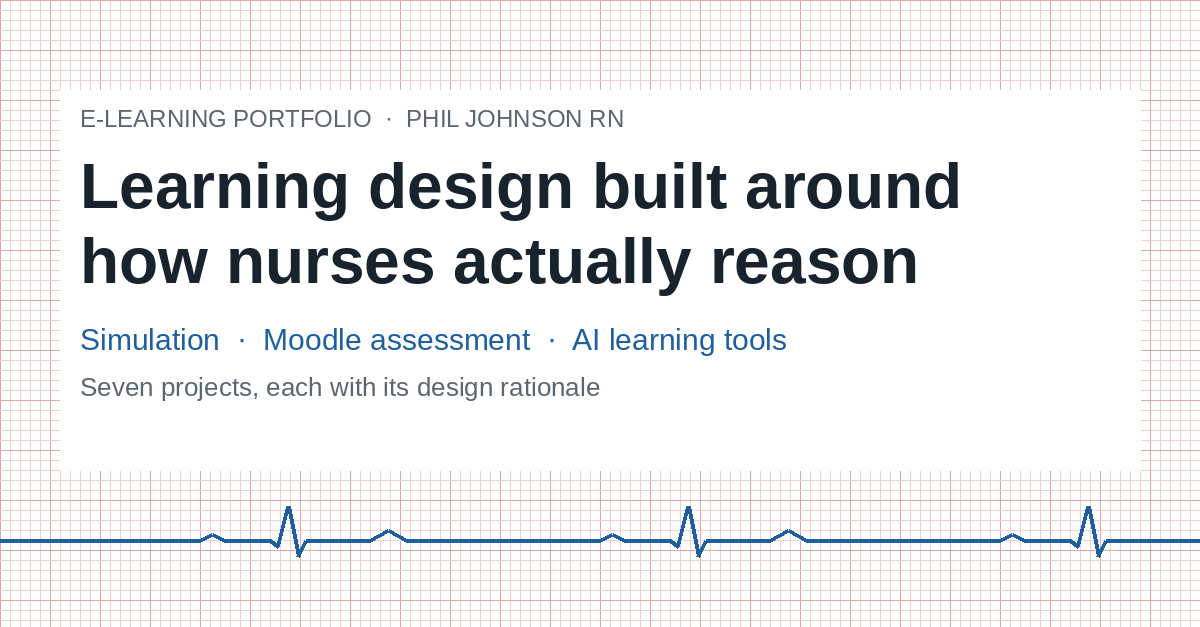
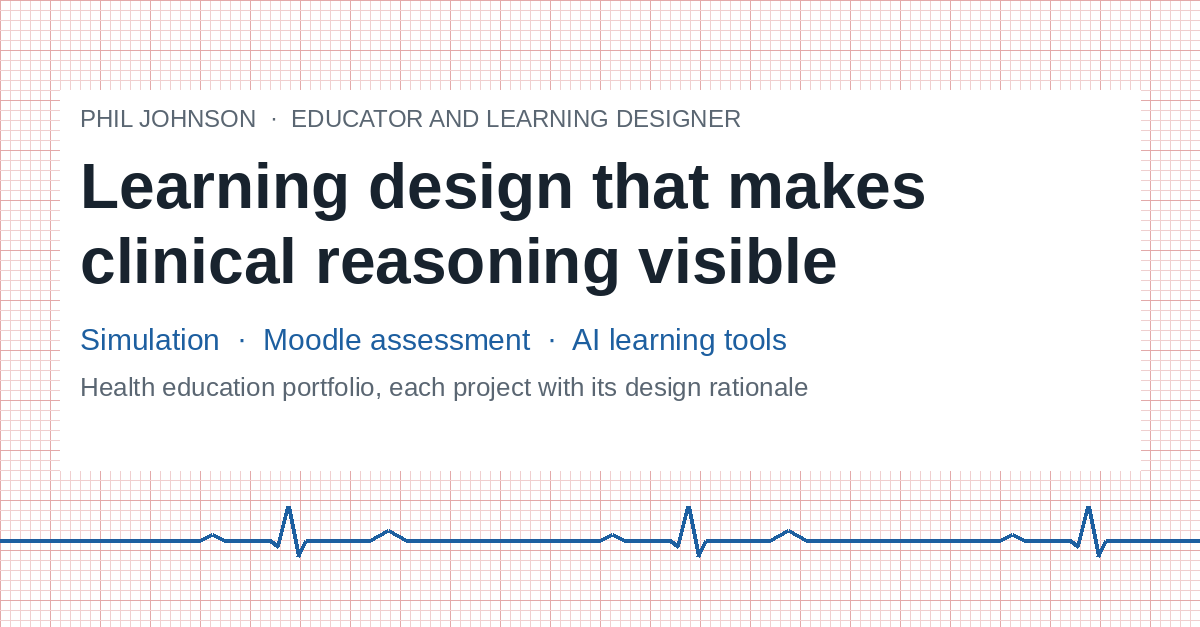
Reframe portfolio as educator and learning designer first, nurse second
Claude-Session: https://claude.ai/code/session_016N7MmoVYwVoLRT2QN2jKek

diff --git a/index.html b/index.html
@@ -4,11 +4,11 @@
 <meta charset="utf-8">
 <meta name="viewport" content="width=device-width, initial-scale=1, viewport-fit=cover">
 <title>Phil Johnson Learning Design</title>
-<meta name="description" content="Interactive e-learning portfolio of Phil Johnson RN, nurse educator: nursing simulations, Moodle assessment design and AI learning tools, each with its design rationale.">
+<meta name="description" content="Portfolio of Phil Johnson, educator and learning designer in health education: simulation, Moodle assessment design and AI learning tools, each with its design rationale.">
 <meta name="author" content="Phil Johnson">
 <meta property="og:type" content="website">
 <meta property="og:url" content="https://jets-git.github.io/portfolio/">
-<meta property="og:title" content="Phil Johnson RN | E-learning Portfolio">
+<meta property="og:title" content="Phil Johnson | Educator and Learning Designer">
 <meta property="og:description" content="Interactive e-learning portfolio of Phil Johnson RN, nurse educator: nursing simulations, Moodle assessment design and AI learning tools, each with its design rationale.">
 <meta property="og:image" content="https://jets-git.github.io/portfolio/og-image.png">
 <meta property="og:image:width" content="1200">
@@ -189,14 +189,14 @@ footer{margin-top:56px;border-top:1px solid var(--line);padding-top:16px;font-fa
 
 <header class="hero">
   <div class="wrap">
-    <div class="eyebrow">E-learning portfolio · Phil Johnson RN</div>
-    <h1>Learning design built around how nurses actually reason</h1>
-    <p class="lede">I am a Registered Nurse and nurse educator who builds digital learning for the Diploma of Nursing. Each project below opens into a decision record: the problem, the options I weighed, the pathway I chose and why.</p>
+    <div class="eyebrow">Phil Johnson · Educator and learning designer</div>
+    <h1>Learning design that makes clinical reasoning visible</h1>
+    <p class="lede">I am an educator and learning designer. I design, build and evaluate digital learning, simulation and assessment for health education, and I bring a Registered Nurse’s clinical judgement to that work. Each project below opens into a decision record: the problem, the options I weighed, the pathway I chose and why.</p>
     <svg class="trace" viewBox="0 0 1000 70" preserveAspectRatio="none" aria-hidden="true">
       <path d="M0 40 H160 l12 -6 l12 6 H230 l8 6 l10 -40 l10 50 l8 -16 H330 l18 -10 l18 10 H520 l12 -6 l12 6 H570 l8 6 l10 -40 l10 50 l8 -16 H670 l18 -10 l18 10 H860 l12 -6 l12 6 H910 l8 6 l10 -40 l10 50 l8 -16 H1000"/>
       <circle cx="996" cy="40" r="4"/>
     </svg>
-    <div class="meta"><span>Marr Mooditj Training · Byford WA</span><span>RN Div 1 · Cert IV TAE40122</span><span>7 projects · 5 levels of fidelity</span><span><a href="#learning">Credentials and CPD ↓</a></span></div>
+    <div class="meta"><span>Marr Mooditj Training · Byford WA</span><span>Cert IV TAE40122 · RN Div 1</span><span>7 projects · 5 levels of fidelity</span><span><a href="#learning">Credentials and CPD ↓</a></span></div>
   </div>
 </header>
 
@@ -251,7 +251,7 @@ footer{margin-top:56px;border-top:1px solid var(--line);padding-top:16px;font-fa
     <p>Drawn from my CPD log. Each entry records what I did, the competencies it relates to, and my reflection on how it changes my practice.</p>
   </header>
   <div class="tiles" id="cpdTiles"></div>
-  <h3 style="font-size:20px;margin:0 0 8px">Registration, qualifications and training</h3>
+  <h3 style="font-size:20px;margin:0 0 8px">Qualifications, memberships and registration</h3>
   <div class="creds-list" id="credEl"></div>
   <h3 style="font-size:20px;margin:0 0 4px">Learning log</h3>
   <div class="filters" id="cpdFilters" role="group" aria-label="Filter learning log"></div>
@@ -261,24 +261,24 @@ footer{margin-top:56px;border-top:1px solid var(--line);padding-top:16px;font-fa
 <section id="about">
   <header>
     <div class="eyebrow">Background</div>
-    <h2>Clinician first, designer second</h2>
+    <h2>Educator first, informed by clinical practice</h2>
   </header>
   <div class="about">
     <div>
-      <p>I teach the Diploma of Nursing at Marr Mooditj Training, facilitate nursing students on placement at Fiona Stanley and Royal Perth hospitals, and keep my clinical practice current through casual CCU and ED shifts. That mix shapes the work: I design for the moment a student meets a real patient.</p>
+      <p>My work is teaching and learning design. At Marr Mooditj Training I deliver the Diploma of Nursing, design its digital learning and assessment, and lead the move from paper-based assessment to Moodle. I build simulations and AI learning tools, and I am deepening my practice through a Graduate Certificate in Education (Digital Learning), HERDSA’s SoTL modules and an Advance HE Fellowship application.</p><p>Clinical practice keeps that work honest. I facilitate nursing students on placement at Fiona Stanley and Royal Perth hospitals and work casual CCU and ED shifts, so I design for the moment a student meets a real patient.</p>
       <p>Before nursing I spent thirteen years as a commissioned Intelligence Officer in the Royal Australian Air Force. Analysing systems, weighing options under uncertainty and writing the reasoning down for someone else to scrutinise are habits from that career, and they are the habits this portfolio documents.</p>
-      <p>My research builds on the same question. I have applied for doctoral study at the University of Notre Dame Australia from 2027. The proposed research, <em>Making Clinical Reasoning Visible</em>, examines how clinical reasoning can be assessed in OSCEs. Alongside it I am completing a Graduate Certificate in Education (Digital Learning) at Adelaide University and HERDSA’s Scholarship of Teaching and Learning modules, and applying for Fellowship of the Higher Education Academy (Advance HE). A later strand explores game mechanics that make a learner's diagnostic reasoning visible step by step.</p>
+      <p>My research builds on the same question. I have applied for doctoral study at the University of Notre Dame Australia from 2027. The proposed research, <em>Making Clinical Reasoning Visible</em>, examines how clinical reasoning can be assessed in OSCEs. A later strand explores game mechanics that make a learner's diagnostic reasoning visible step by step.</p>
     </div>
     <dl class="creds">
+      <div><dt>Education and training</dt><dd>Cert IV Training and Assessment (TAE40122) · Graduate Certificate in Education (Digital Learning), in progress · Bachelor of Nursing · Bachelor of Science</dd></div>
       <div><dt>Registration</dt><dd>Registered Nurse (Division 1)</dd></div>
-      <div><dt>Education</dt><dd>Bachelor of Nursing · Bachelor of Science · Cert IV Training and Assessment (TAE40122)</dd></div>
-      <div><dt>Memberships</dt><dd>Australian College of Nursing · HERDSA Health Sciences, Online Engagement in Higher Education and SoTL SIGs</dd></div>
+      <div><dt>Memberships</dt><dd>HERDSA Health Sciences, Online Engagement in Higher Education and SoTL SIGs · Australian College of Nursing</dd></div>
       <div><dt>Tools</dt><dd>Moodle · Python and web apps on Render · LLM integration · ESP32 · Blender and 3D printing</dd></div>
     </dl>
   </div>
 </section>
 
-<footer>Phil Johnson · Nurse educator · Perth, Western Australia</footer>
+<footer>Phil Johnson · Educator and learning designer · Registered Nurse · Perth, Western Australia</footer>
 </main>
 
 <script>
@@ -446,7 +446,7 @@ function renderAll(){renderLadder();renderFilters();renderCases()}
 open.add("med");
 renderAll();renderMatrix();
 /* Professional learning: reads data/cpd.json */
-const CPD_GROUPS={all:"All",learn:"Formal learning",sim:"Simulation education",practice:"Clinical practice",lead:"Leadership and networking",aware:"Industry awareness"};
+const CPD_GROUPS={all:"All",sim:"Simulation education",learn:"Formal learning",lead:"Leadership and networking",aware:"Industry awareness",practice:"Clinical practice"};
 let cpdData=null, cpdFilter="all", cpdAll=false;
 const esc=t=>String(t??"").replace(/[&<>"]/g,c=>({"&":"&amp;","<":"&lt;",">":"&gt;",'"':"&quot;"}[c]));
 function cpdGroup(e){
@@ -466,11 +466,11 @@ function renderCPD(){
   const sim=list.filter(x=>cpdGroup(x)==="sim");
   const ry=`${s.getFullYear()}–${String(e.getFullYear()).slice(2)}`;
   $("#cpdTiles").innerHTML=`
+    <div class="tile"><span class="k">Simulation education</span><span class="v">${sim.length}<small> modules</small></span><span class="note">Standards, debriefing, scenario design, moulage and simulated patients</span></div>
     <div class="tile"><span class="k">Development hours · ${ry}</span><span class="v">${+dev.toFixed(1)}<small> / 20 h</small></span><div class="meter"><i style="width:${Math.min(100,dev/20*100)}%"></i></div><span class="note">NMBA minimum is 20 hours per registration year</span></div>
-    <div class="tile"><span class="k">Clinical practice · ${ry}</span><span class="v">${+prac.toFixed(1)}<small> h</small></span><span class="note">Agency shifts and student clinical facilitation</span></div>
-    <div class="tile"><span class="k">Simulation education</span><span class="v">${sim.length}<small> modules</small></span><span class="note">Standards, debriefing, scenario design, moulage and simulated patients</span></div>`;
+    <div class="tile"><span class="k">Clinical practice · ${ry}</span><span class="v">${+prac.toFixed(1)}<small> h</small></span><span class="note">Agency shifts and student clinical facilitation</span></div>`;
   const now=new Date();
-  const KINDS=["Registration","Study in progress","Qualification","Professional memberships","Mandatory training"];
+  const KINDS=["Study in progress","Qualification","Professional memberships","Registration","Mandatory training"];
   const kinds=[...KINDS,...new Set(cpdData.credentials.map(c=>c.kind).filter(k=>!KINDS.includes(k)))];
   const credRow=c=>{
     let pill="";const when=c.expires||c.renews;
